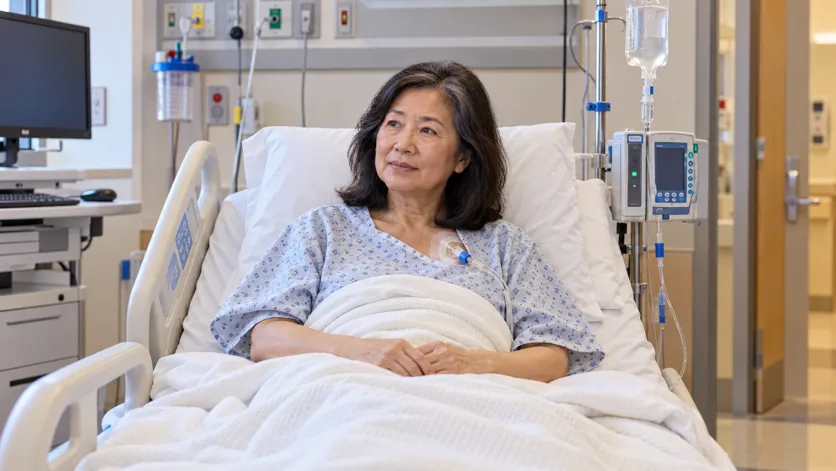
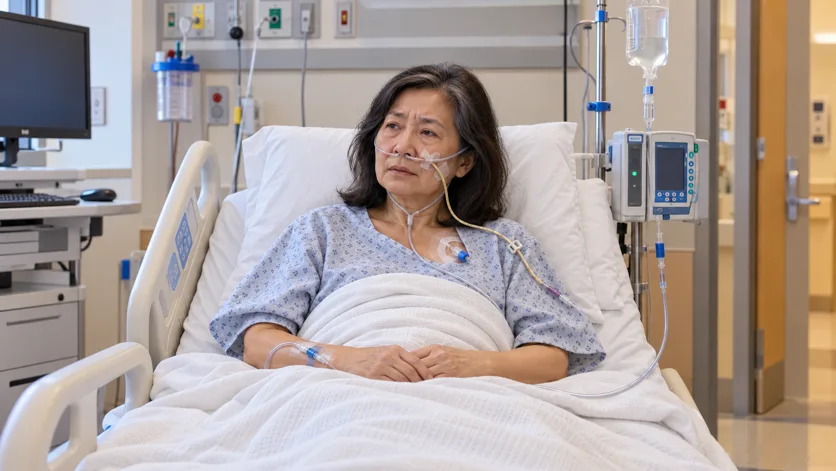
Build Elena’s inpatient record and printable nutrition note

diff --git a/public/spe/5103/nutrition-support/index.html b/public/spe/5103/nutrition-support/index.html
@@ -35,12 +35,45 @@
   <div class="gpnd-nav"><button id="back-room" type="button" aria-controls="patient-room">Back to patient room</button></div>
   <div id="emr-workspace"></div>
   <section class="nutrition-note" aria-labelledby="note-heading">
-    <h3 id="note-heading">Nutrition note · ADIME</h3>
+    <h3 id="note-heading">RD Nutrition Assessment / Progress Note</h3>
+    <p id="note-context" class="note-context"></p>
     <form id="nutrition-note">
-      <label>Assessment <textarea name="assessment" required rows="3"></textarea></label>
-      <label>Nutrition diagnosis <textarea name="diagnosis" required rows="3"></textarea></label>
-      <label>Intervention and rationale <textarea name="intervention" required rows="3"></textarea></label>
-      <label>Monitoring and evaluation <textarea name="monitoring" required rows="3"></textarea></label>
+      <fieldset><legend>Nutrition assessment</legend>
+        <label>PO intake <select name="intake"><option value="">Choose…</option><option>NPO</option><option>Inadequate</option><option>Adequate</option><option>Unable to determine</option></select></label>
+        <label>Appetite <select name="appetite"><option value="">Choose…</option><option>Good</option><option>Fair</option><option>Poor</option><option>Unable to determine</option></select></label>
+        <label>Weight history / interpretation <textarea name="weight" rows="2"></textarea></label>
+        <label>Additional assessment findings and estimated needs <textarea name="assessment" required rows="3"></textarea></label>
+        <details><summary>Nutrition-Focused Physical Exam</summary>
+        <p>Document findings supported by the encounter.</p>
+<label>Orbital region<select name="nfpe0"><option value="">Not documented</option><option>WNL / no loss</option><option>Mild</option><option>Moderate</option><option>Severe</option><option>Unable to assess</option></select></label>
+<label>Upper arm / triceps<select name="nfpe1"><option value="">Not documented</option><option>WNL / no loss</option><option>Mild</option><option>Moderate</option><option>Severe</option><option>Unable to assess</option></select></label>
+<label>Thoracic / ribs<select name="nfpe2"><option value="">Not documented</option><option>WNL / no loss</option><option>Mild</option><option>Moderate</option><option>Severe</option><option>Unable to assess</option></select></label>
+<label>Temple / temporalis<select name="nfpe3"><option value="">Not documented</option><option>WNL / no loss</option><option>Mild</option><option>Moderate</option><option>Severe</option><option>Unable to assess</option></select></label>
+<label>Clavicle region<select name="nfpe4"><option value="">Not documented</option><option>WNL / no loss</option><option>Mild</option><option>Moderate</option><option>Severe</option><option>Unable to assess</option></select></label>
+<label>Shoulder / deltoid<select name="nfpe5"><option value="">Not documented</option><option>WNL / no loss</option><option>Mild</option><option>Moderate</option><option>Severe</option><option>Unable to assess</option></select></label>
+<label>Interosseous<select name="nfpe6"><option value="">Not documented</option><option>WNL / no loss</option><option>Mild</option><option>Moderate</option><option>Severe</option><option>Unable to assess</option></select></label>
+<label>Scapular region<select name="nfpe7"><option value="">Not documented</option><option>WNL / no loss</option><option>Mild</option><option>Moderate</option><option>Severe</option><option>Unable to assess</option></select></label>
+<label>Anterior thigh / quadriceps<select name="nfpe8"><option value="">Not documented</option><option>WNL / no loss</option><option>Mild</option><option>Moderate</option><option>Severe</option><option>Unable to assess</option></select></label>
+<label>Posterior calf / gastrocnemius<select name="nfpe9"><option value="">Not documented</option><option>WNL / no loss</option><option>Mild</option><option>Moderate</option><option>Severe</option><option>Unable to assess</option></select></label>
+        <label>Fluid accumulation and location <input name="fluids"></label>
+        <label>Hand-grip strength <input name="grip"></label>
+        <label>Additional NFPE findings <input name="additional"></label>
+        </details>
+      </fieldset>
+      <fieldset><legend>Nutrition diagnosis</legend>
+        <label>Nutrition diagnosis <input name="diagnosis" required></label>
+        <label>Etiology / related factors <input name="etiology" required></label>
+        <label>Signs / symptoms <input name="signs" required></label>
+      </fieldset>
+      <fieldset><legend>Intervention</legend>
+        <label>Intervention category <select name="category"><option value="">Choose…</option><option>Enteral nutrition</option><option>Parenteral nutrition</option><option>Coordination of care</option><option>Other</option></select></label>
+        <label>Intervention / nutrition prescription details and rationale <textarea name="intervention" required rows="3"></textarea></label>
+        <label>Coordination / communication <textarea name="coordination" rows="2"></textarea></label>
+      </fieldset>
+      <fieldset><legend>Monitoring / evaluation</legend>
+        <label>Monitoring / evaluation targets <input name="targets"></label>
+        <label>Monitoring / evaluation details and follow-up <textarea name="monitoring" required rows="3"></textarea></label>
+      </fieldset>
       <div class="gpnd-nav"><button type="submit" id="save-note"></button><a id="other-encounter" hidden></a></div>
       <p id="note-status" role="status"></p>
     </form>
@@ -49,6 +82,7 @@
 </section>
 <footer>Simulation only · All case details are fictional</footer>
 </main>
+<article id="note-printout" aria-label="Printable nutrition note"></article>
 <script type="module" src="case.mjs"></script>
 </body>
 </html>

diff --git a/public/spe/5103/nutrition-support/acute-care-chart.css b/public/spe/5103/nutrition-support/acute-care-chart.css
@@ -171,3 +171,13 @@
   #emr-workspace .emr-layout { grid-template-columns: minmax(0, 1fr); }
   #emr-workspace .emr-sidebar { display: none; }
 }
+.nutrition-note :is(input, select, textarea) { display: block; width: 100%; padding: .5rem; font: inherit; }
+.nutrition-note fieldset { margin: 1rem 0; border: 1px solid #d7dde3; border-radius: .35rem; }
+.note-context { padding: .75rem; background: #f3f6f8; }
+#note-printout { display: none; }
+@media print {
+  body > :not(#note-printout) { display: none !important; }
+  #note-printout { display: block; margin: 0; color: black; font: 11pt/1.45 system-ui, sans-serif; }
+  #note-printout h2 { font-size: 12pt; break-after: avoid; }
+  #note-printout p { white-space: pre-wrap; overflow-wrap: anywhere; }
+}
